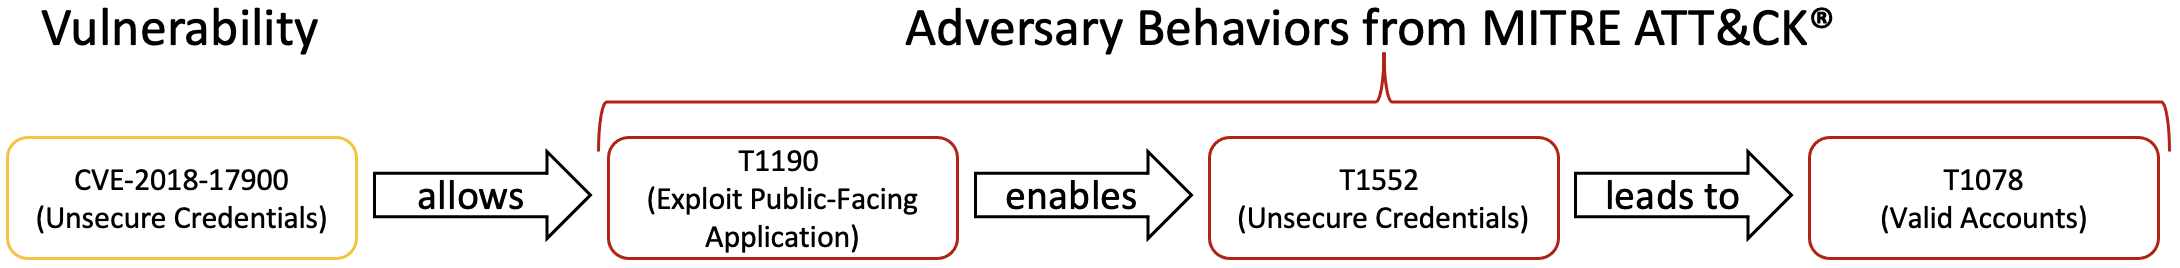
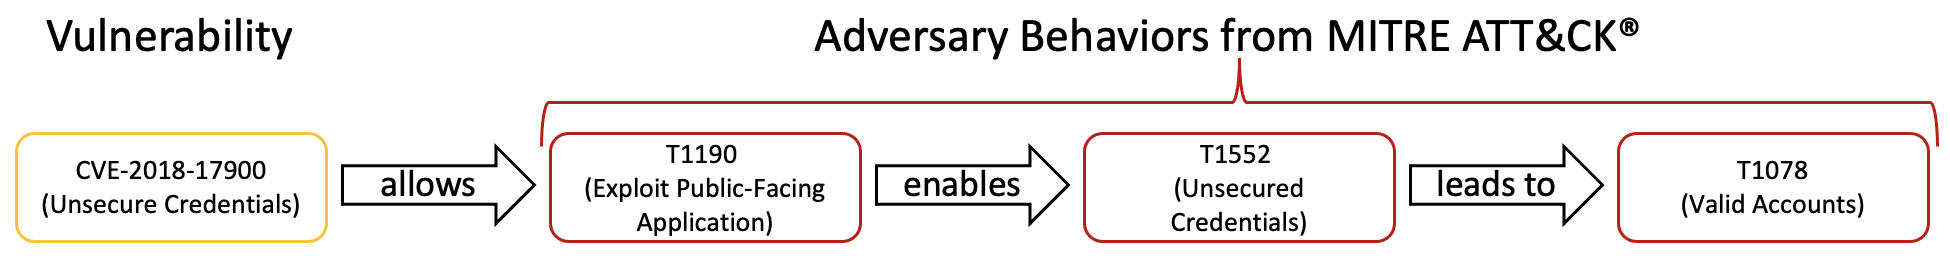
Post release edits (#4)
* Add files via upload

* Update methodology.md

corrected typo in technique name. 
#2

diff --git a/methodology.md b/methodology.md
@@ -77,7 +77,7 @@ This methodology establishes a starting point for vulnerability reporters and re
 
 To find the appropriate ATT&CK techniques, start by identifying the vulnerability type.  For CVE-2018-17900, the vulnerability is a credential management issue.  Looking through the list of vulnerability types in the methodology, the "General Credential Management Errors" vulnerability type appears to be the most appropriate.  Using one of the lower-level credential management vulnerability types is preferable but the CVE record does not provide the level of detail need to do so.  
 
-The ”General Credential Management Errors” vulnerability type maps to [T1552](https://attack.mitre.org/techniques/T1552) (Unsecure Credentials) for the primary impact and [T1078](https://attack.mitre.org/techniques/T1078) (Valid Accounts) for the secondary impact.  These mappings follow the description in the CVE record.  “improperly protects credentials which could allow an attacker to obtain credentials” matches T1552 and “for remote access to controllers” matches T1078.
+The ”General Credential Management Errors” vulnerability type maps to [T1552](https://attack.mitre.org/techniques/T1552) (Unsecured Credentials) for the primary impact and [T1078](https://attack.mitre.org/techniques/T1078) (Valid Accounts) for the secondary impact.  These mappings follow the description in the CVE record.  “improperly protects credentials which could allow an attacker to obtain credentials” matches T1552 and “for remote access to controllers” matches T1078.
 
 The ”General Credential Management Errors” vulnerability type does not have a mapping for the exploitation technique because there are too many ways general credential management vulnerabilities can be exploited.  To find the exploitation technique for CVE-2018-17900, use the Exploit Technique section.  The Exploit Technique section documents a set of scenarios to help the user determine which exploitation technique(s) are appropriate for the vulnerability.  For CVE-2018-17900, the entry point is the web application so the “Attacker exploits remote system application” scenario applies, which makes [T1190](https://attack.mitre.org/techniques/T1190) (Exploit Public-Facing Application) the exploitation technique for the vulnerability.
 
@@ -85,7 +85,7 @@ The description for CVE-2018-17900 can now be re-written using the ATT&CK standa
 
 ![/cve-2018-17900-mapping-example.png](/cve-2018-17900-mapping-example.png)
 
-> Yokogawa STARDOM Controllers FCJ, FCN-100, FCN-RTU, FCN-500, All versions R4.10 and prior, have Unsecure Credentials which could allow an attacker to gain access to Valid Accounts by Exploiting the Public-Facing Application.
+> Yokogawa STARDOM Controllers FCJ, FCN-100, FCN-RTU, FCN-500, All versions R4.10 and prior, have Unsecured Credentials which could allow an attacker to gain access to Valid Accounts by Exploiting the Public-Facing Application.
 
 # Vulnerability type mappings
 
@@ -98,7 +98,7 @@ The vulnerability type section contains mappings for many of the common vulnerab
 | Improper Restriction of Excessive Authentication Attempts | [T1078](https://attack.mitre.org/techniques/T1078) (Valid Accounts) | N/A | [T1110.001](https://attack.mitre.org/techniques/T1110/001) (Brute Force: Password Guessing) |  |
 | Overly Restrictive Account Lockout Mechanism | <ul><li>Mobile - [T1446](https://attack.mitre.org/techniques/T1446) (Device Lockout)</li><li>Others – [T1531](https://attack.mitre.org/techniques/T1531) (Account Access Removal)</li></ul> | N/A | [T1110](https://attack.mitre.org/techniques/T1110) (Brute Force) |  |
 | Use of Password Hash Instead of Password for Authentication | [T1550.002](https://attack.mitre.org/techniques/T1550/002) (Use Alternate Authentication Material: Pass the Hash) | N/A | N/A |  |
-| General Credential Management Errors | [T1552](https://attack.mitre.org/techniques/T1552) (Unsecure Credentials) | [T1078](https://attack.mitre.org/techniques/T1078) (Valid Accounts) | N/A | A sub-technique can be chosen where applicable. |
+| General Credential Management Errors | [T1552](https://attack.mitre.org/techniques/T1552) (Unsecured Credentials) | [T1078](https://attack.mitre.org/techniques/T1078) (Valid Accounts) | N/A | A sub-technique can be chosen where applicable. |
 | Cleartext Transmission of Sensitive Information | [T1552](https://attack.mitre.org/techniques/T1552) (Unsecured Credentials) | [T1078](https://attack.mitre.org/techniques/T1078) (Valid Accounts) | [T1040](https://attack.mitre.org/techniques/T1040) (Network Sniffing) | A sub-technique can be chosen where applicable. |
 | Hard-coded Credentials | [T1078.001](https://attack.mitre.org/techniques/T1078/001) (Default Accounts) | N/A | N/A |  |
 | Weak Password/Hashing | N/A | [T1078](https://attack.mitre.org/techniques/T1078) (Valid Accounts) | [T1110](https://attack.mitre.org/techniques/T1110) (Brute Force) |  |
@@ -189,7 +189,7 @@ When the three methods above (Vulnerability Type, Functionality, and Exploit Tec
 
 ## CVE-2018-17900
 
-[CVE-2018-17900](https://nvd.nist.gov/vuln/detail/CVE-2018-17900) is about insecure credential handling.  The in "General Credential Management Errors" vulnerability type applies for this vulnerability.  In this case, both mappings in the methodology apply.  The Primary Impact is [T1552](https://attack.mitre.org/techniques/T1552) (Unsecure Credentials), when then leads to the Secondary Impact allowing the adversary to use [T1078](https://attack.mitre.org/techniques/T1078) (Valid Accounts).
+[CVE-2018-17900](https://nvd.nist.gov/vuln/detail/CVE-2018-17900) is about insecure credential handling.  The in "General Credential Management Errors" vulnerability type applies for this vulnerability.  In this case, both mappings in the methodology apply.  The Primary Impact is [T1552](https://attack.mitre.org/techniques/T1552) (Unsecured Credentials), when then leads to the Secondary Impact allowing the adversary to use [T1078](https://attack.mitre.org/techniques/T1078) (Valid Accounts).
 
 ## CVE-2020-11036
 
